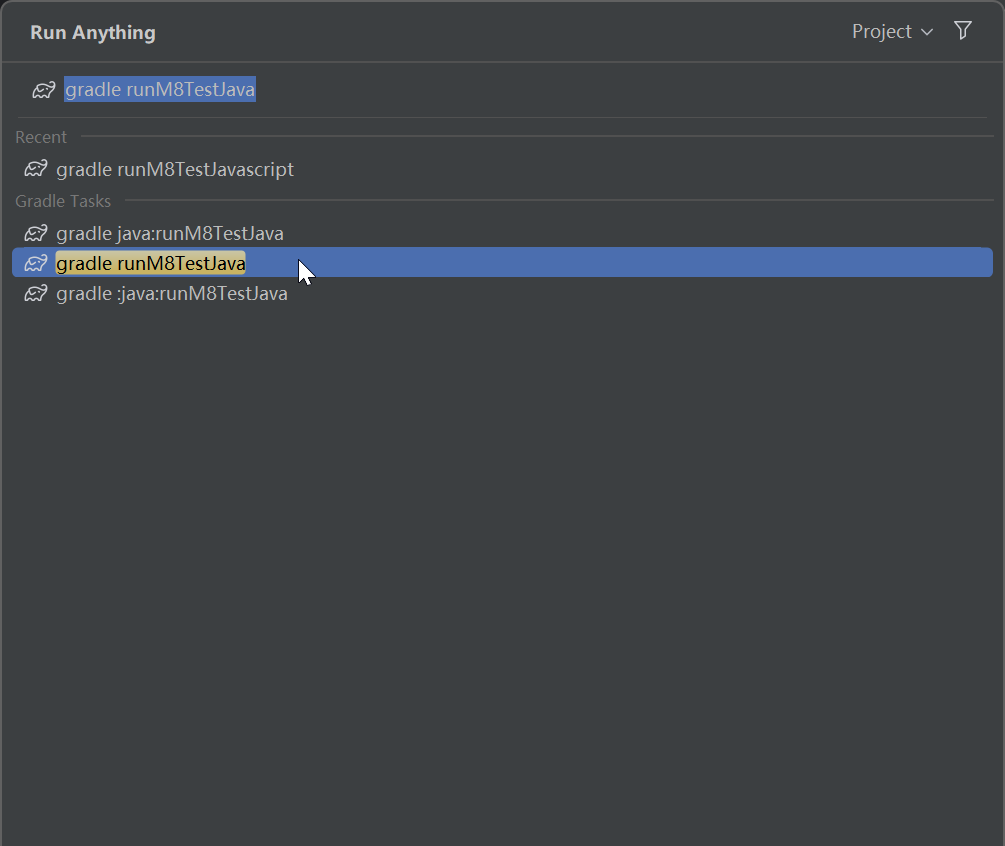
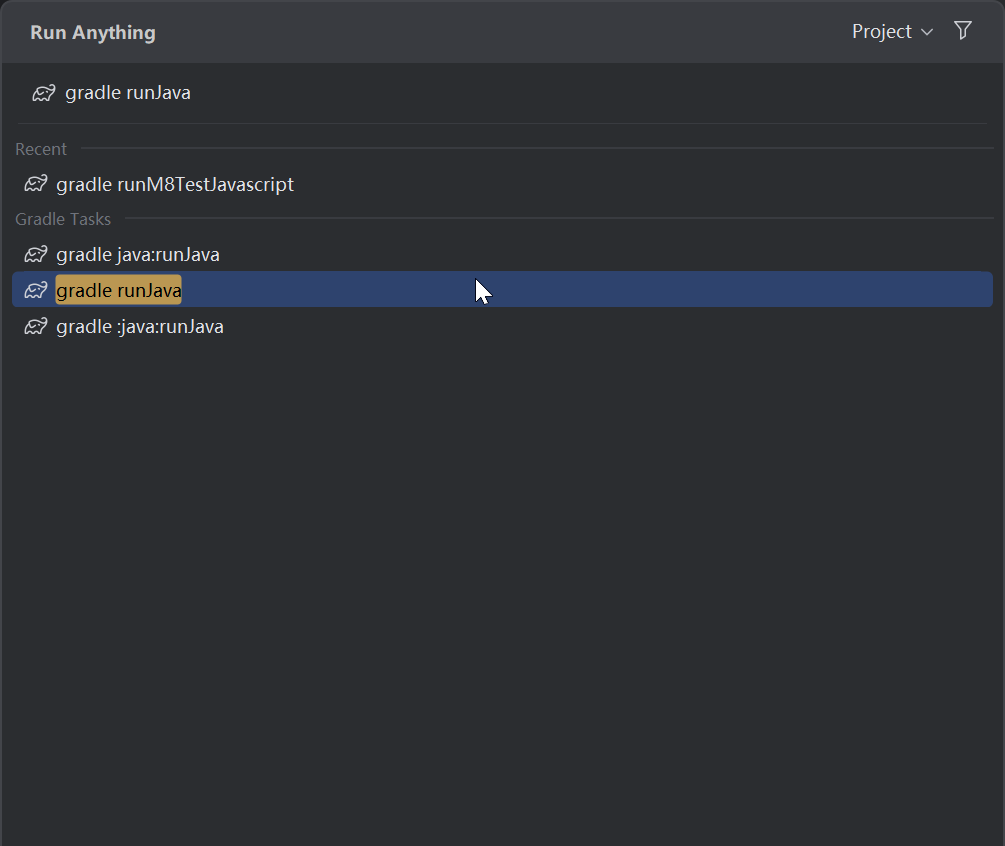
feat: 增加了UI相关代码

diff --git a/java/src/main/java/com/example/script/primary.java b/java/src/main/java/com/example/script/primary.java
@@ -1,12 +1,47 @@
 package com.example.script;
 
-import static com.m8test.script.GlobalVariables.$console;
+import android.view.Gravity;
+import android.view.View;
+import android.widget.Button;
+import android.widget.FrameLayout;
 import com.example.tool.ToolB;
+import kotlin.jvm.functions.Function1;
+
+import static com.m8test.script.GlobalVariables.*;
 
 class MyScript {
     public static void run() {
         // 这里写代码
         ToolB tool = new ToolB();
         tool.methodB($console);
+        // Function1 不能使用泛型, 直接去除即可, 否则编译错误
+        $androidView.create(true, new Function1() {
+            @Override
+            public Object invoke(Object o) {
+                // 强制类型转换
+                FrameLayout frameLayout = (FrameLayout) o;
+                // 创建按钮对象
+                Button button = new Button(frameLayout.getContext());
+                button.setText("Hello");
+                FrameLayout.LayoutParams layoutParams = new FrameLayout.LayoutParams(FrameLayout.LayoutParams.WRAP_CONTENT, FrameLayout.LayoutParams.WRAP_CONTENT);
+                // 设置按钮居中显示
+                layoutParams.gravity = Gravity.CENTER;
+                // 设置按钮监听器, 每点击一次数字自增1
+                button.setOnClickListener(new View.OnClickListener() {
+                    private int num = 0;
+
+                    @Override
+                    public void onClick(View v) {
+                        Button button = (Button) v;
+                        num++;
+                        button.setText("Hello" + num);
+                    }
+                });
+                frameLayout.addView(button, layoutParams);
+                return null;
+            }
+        });
+        // 启动界面
+        $activity.start();
     }
 }

diff --git a/README.md b/README.md
@@ -7,15 +7,30 @@
 
 ## 📦 Gradle 任务说明
 
-1. **`buildM8TestJava`**  
-   构建 M8Test Java 脚本项目源码，但不执行脚本。构建完成后，源码位于 `build/project` 目录。
+### 任务分组
 
-2. **`generateJavaGlobalVariables`**  
-   生成 Java 全局变量，提供代码提示功能。需连接安卓设备，建议在编写代码前执行一次。如果 `build.gradle.kts`
-   中的依赖组件更新，需重新执行。
+1. **`m8test-build`**  
+   M8Test构建相关任务组，包含`buildJava`（构建Java项目）、`runJava`（运行项目）等任务。
 
-3. **`runM8TestJava`**  
-   构建 M8Test Java 脚本项目，并将项目推送到已连接的安卓设备上运行。
+2. **`m8test-code-completion`**  
+   M8Test代码补全相关任务组，包含`generateJavaGlobalVariables`（生成全局变量代码补全文件）等任务。
+
+3. **`m8test-developmenet-environment`**  
+   M8Test开发环境相关任务组，包含`installDevelopmentEnvironment`（安装开发环境）、`installJavaPlugin`（安装语言插件）等任务。
+
+4. **`m8test-download`**  
+   M8Test资源下载相关任务组，包含`downloadJavaCodeTemplate`（下载示例代码模板）、`downloadJavaDocs`（下载文档）等任务。
+
+> 实际开发中主要关注构建任务和代码补全任务即可。
+
+### 常用任务
+
+| 任务名称                          | 任务分组                     | 功能描述                                                         |
+|-------------------------------|--------------------------|--------------------------------------------------------------|
+| `generateJavaGlobalVariables` | `m8test-code-completion` | 生成Java全局变量代码补全文件，提供IDE代码提示功能。需连接安卓设备，建议编写代码前执行一次，依赖更新后需重新执行。 |
+| `buildJava`                   | `m8test-build`           | 构建M8Test Java脚本项目源码（不执行），构建结果位于`build/project`目录。            |
+| `runJava`                     | `m8test-build`           | 构建并将项目推送到已连接的安卓设备上运行。                                        |
+| `buildJavaApk`                | `m8test-build`           | 将M8Test Java脚本项目打包成APK文件。                                    |
 
 ---
 
@@ -23,44 +38,46 @@
 
 ### 方法一：使用快捷搜索
 
-1. 双击 `Ctrl` 键，打开搜索框。
-2. 输入 `gradle 任务名`，例如 `gradle runM8TestJava`，然后按回车执行。
+1. 双击`Ctrl`键打开全局搜索框
+2. 输入`gradle 任务名`（如`gradle runJava`）
+3. 按回车执行
 
-   ![方法一示例](images/1.png)
+![方法一示例](images/1.png)
 
-### 方法二：通过 Gradle 面板
+### 方法二：通过Gradle面板
 
-1. 点击 Gradle 图标。
-2. 依次展开 `java` > `Tasks` > `m8test`。
-3. 双击需要执行的任务。
+1. 点击IDE右侧Gradle面板图标
+2. 依次展开`java` > `Tasks` > `m8test`
+3. 双击需要执行的任务
 
-   ![方法二示例](images/2.png)
+![方法二示例](images/2.png)
 
 ### 方法三：使用终端命令
 
-1. 按下快捷键 `Alt + F12` 打开终端。
-2. 输入命令 `./gradlew 任务名`，例如 `./gradlew runM8TestJava`，然后按回车执行。
+1. 按`Alt + F12`打开终端
+2. 输入命令`./gradlew 任务名`（如`./gradlew runJava`）
+3. 按回车执行
 
-   ![方法三示例](images/3.png)
+![方法三示例](images/3.png)
 
 ---
 
 ## ⚙ 配置脚本项目
 
-脚本项目的配置位于 `java/build.gradle.kts` 文件中。您可以根据需要修改设备的 IP、ADB 端口等参数。该文件中包含详细的代码注释，供参考。
+脚本项目配置位于`java/build.gradle.kts`文件，可根据需要修改设备IP、ADB端口等参数，文件内包含详细注释可供参考。
 
 ---
 
 ## 🛠 项目开发流程
 
 1. **生成全局变量**  
-   执行 `generateJavaGlobalVariables` 任务，生成 Java 全局变量，提供代码提示功能。
+   执行`generateJavaGlobalVariables`任务生成代码补全文件，提供IDE代码提示功能。
 
-2. **连接日志服务**
+2. **连接日志服务**  
+   按`Alt + T`，依次选择`M8Test` > `连接日志服务`。
 
-   按下快捷键 `Alt + T`，依次选择 `M8Test` > `连接日志服务`。
+3. **编写并运行脚本**  
+   编写代码保存后，执行`runJava`任务在安卓设备上运行项目（需提前开启ADB调试），运行日志可在M8Test日志面板查看。
 
-3. **编写并运行脚本**
-
-   编写代码并保存后，执行 `runM8TestJava` 任务，即可在安卓设备上运行脚本项目。确保安卓设备已开启 ADB 调试。运行日志可在
-   M8Test 日志面板中查看。
+4. **打包Apk**  
+   所有的脚本开发工作都完整后, 如果你需要打包成独立的apk可以执行 `buildJavaApk` 任务。
